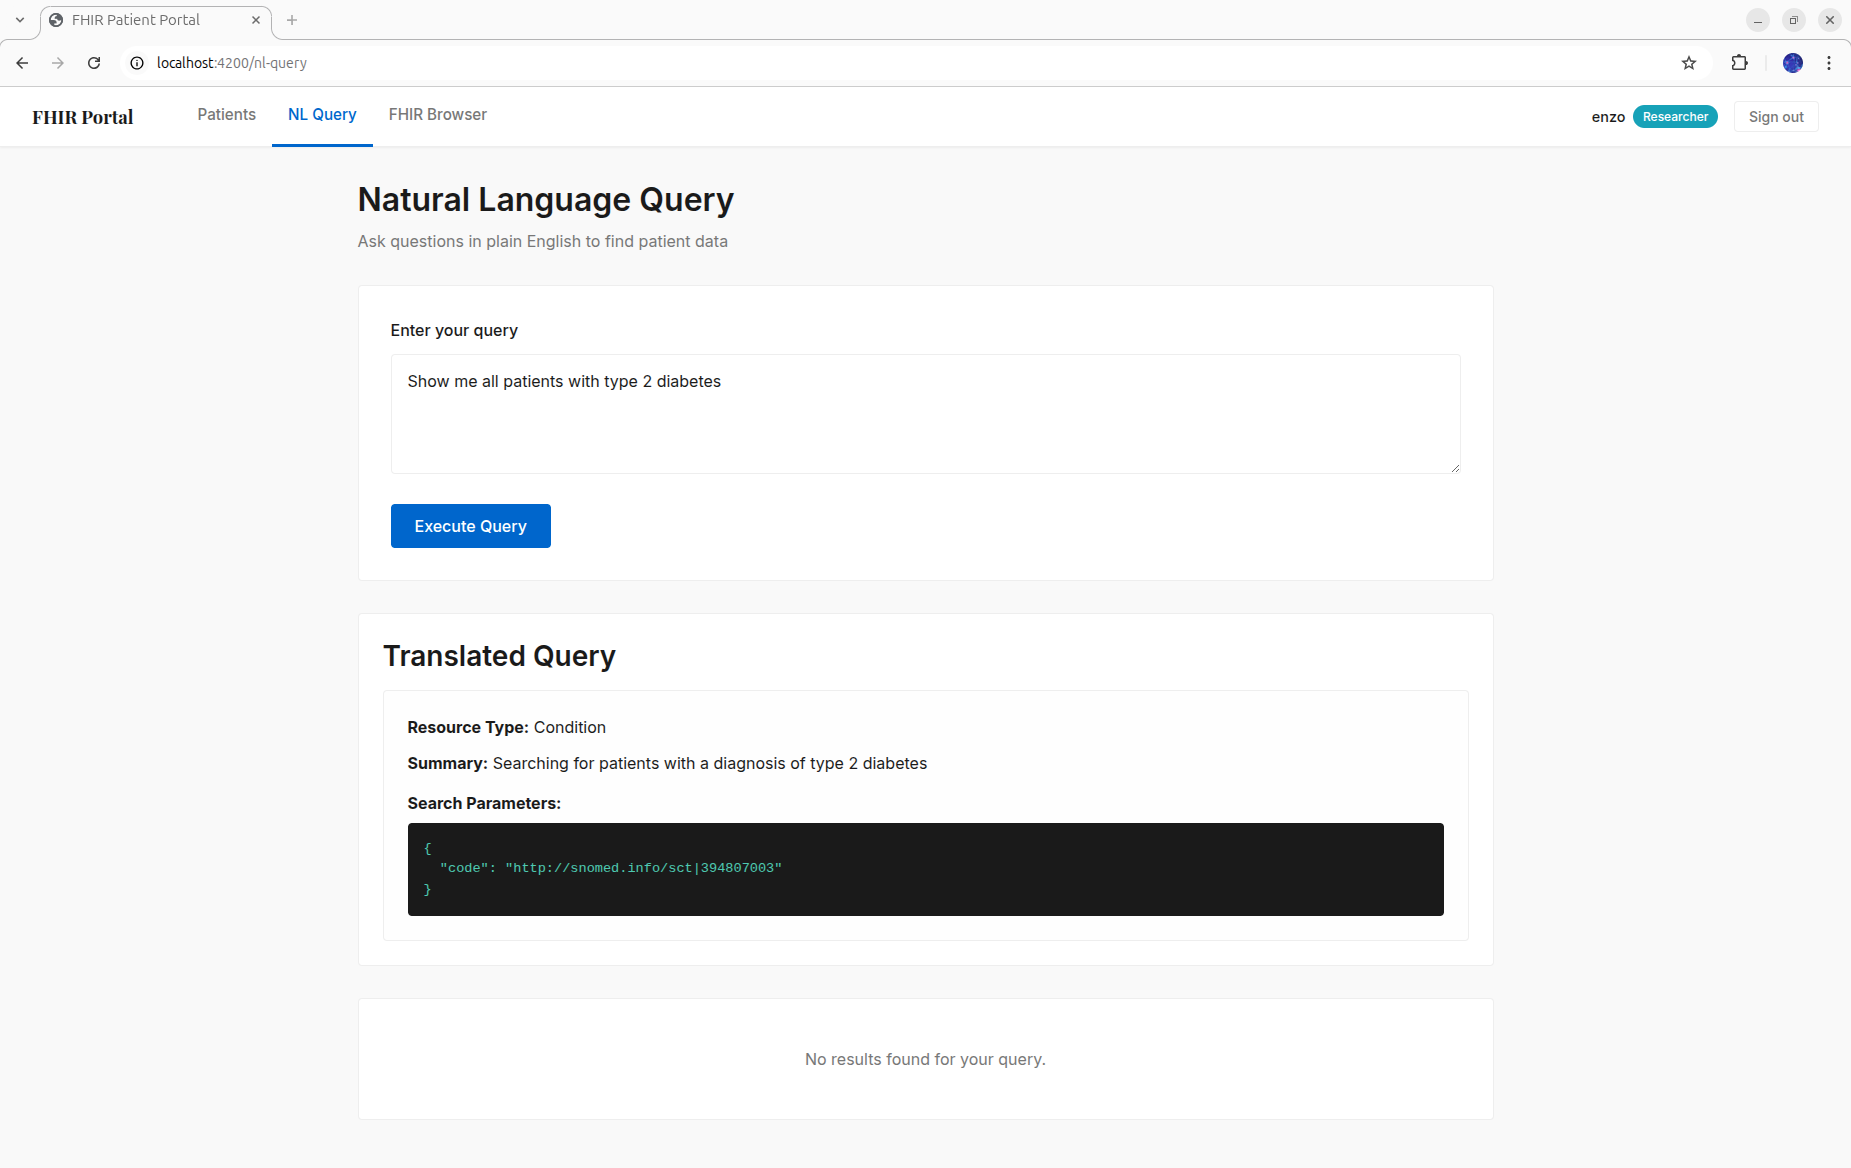
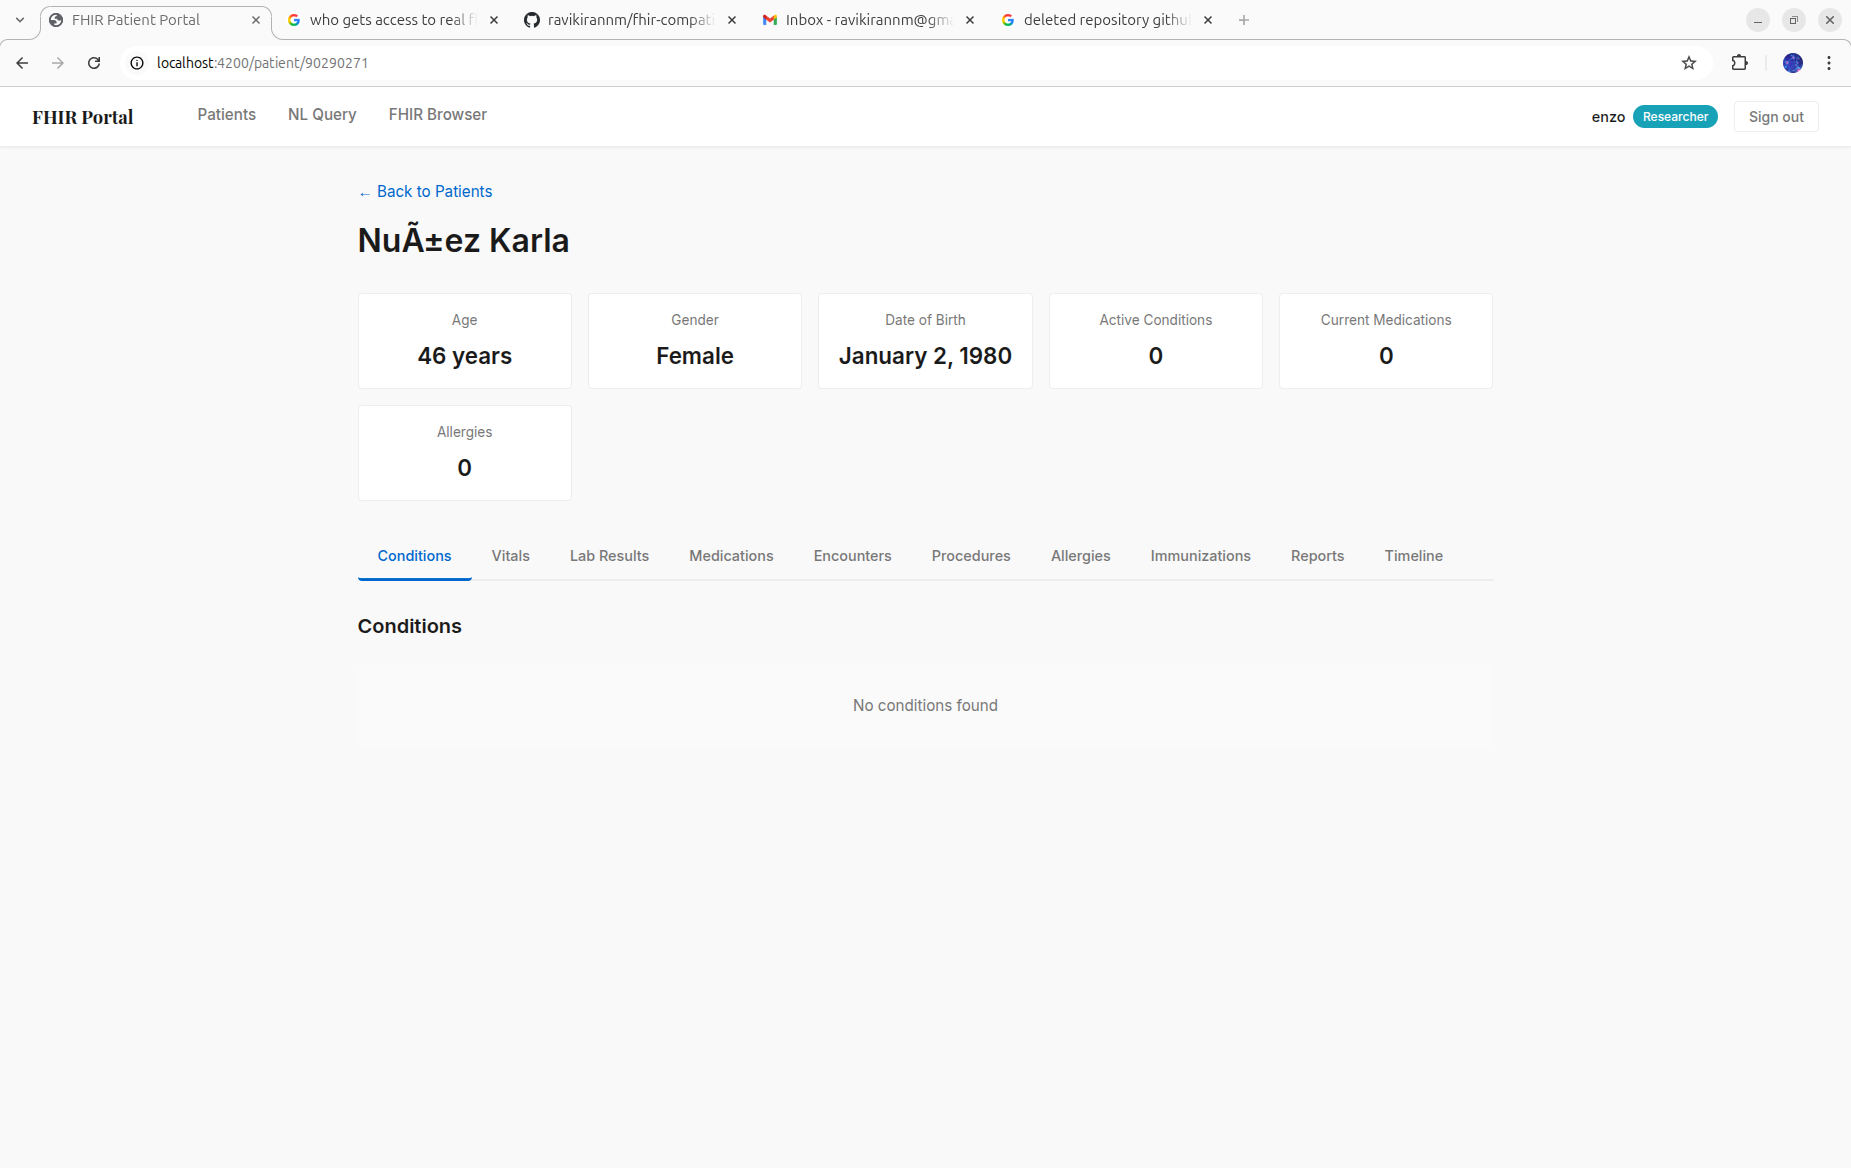
Updated readme file

diff --git a/README.md b/README.md
@@ -10,13 +10,17 @@ A clinical data exploration platform built on the **HL7 FHIR R4** standard. It p
 
 ![Patient List](image1.png)
 
+**Patient Detail** — Individual patient dashboard showing demographic summary cards and tabbed access to Conditions, Vitals, Lab Results, Medications, Encounters, Procedures, Allergies, Immunizations, Reports, and Timeline.
+
+![Patient Detail](image2.png)
+
 **Natural Language Query** — Type a clinical question in plain English; the LLM translates it to FHIR search parameters and executes the query transparently.
 
-![Natural Language Query](image2.png)
+![Natural Language Query](image3.png)
 
 **FHIR Resource Browser** — Select any FHIR R4 resource type, supply JSON search parameters, and inspect raw results or full JSON payloads.
 
-![FHIR Browser](image3.png)
+![FHIR Browser](image4.png)
 
 ---
 
